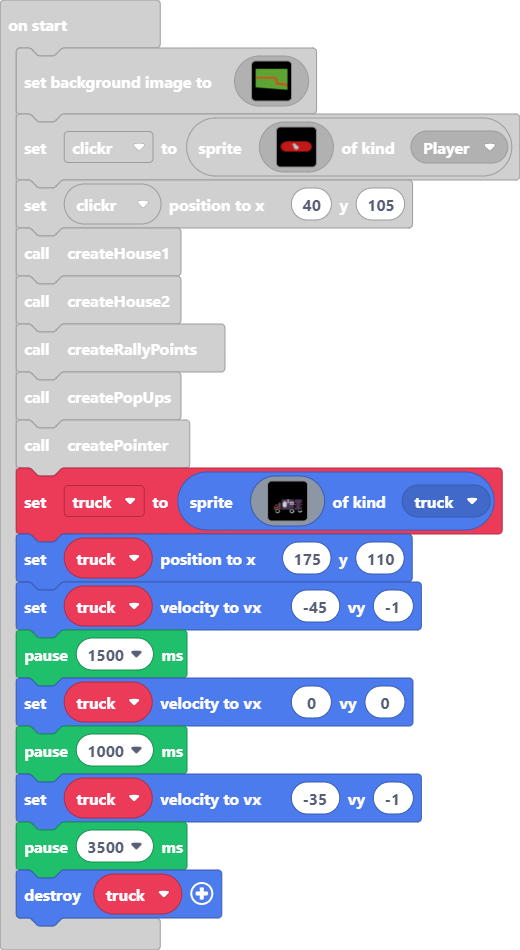
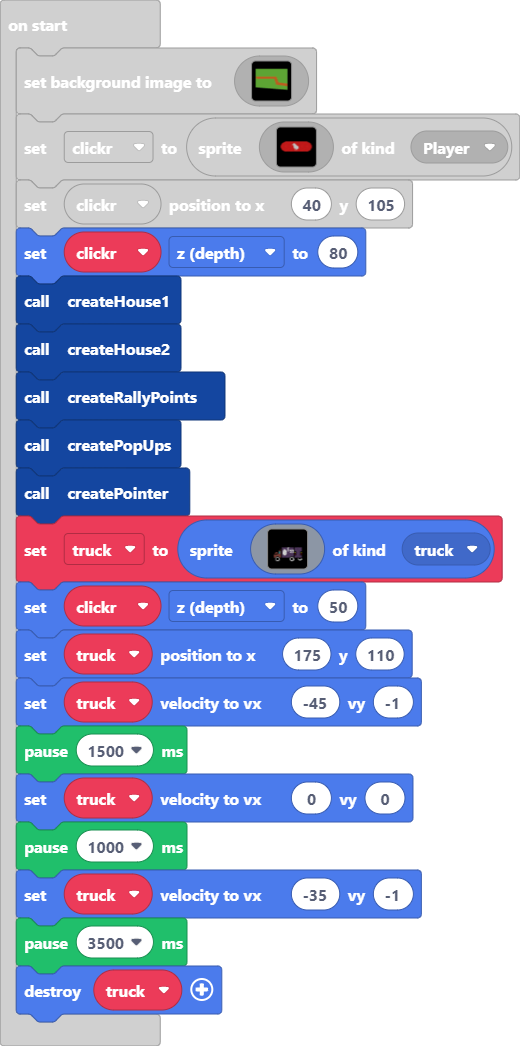
the truck now appears to be behind the clickr

diff --git a/main.ts b/main.ts
@@ -805,6 +805,7 @@ clickr = sprites.create(img`
     .........ffffffffffffffffffffffffffffffffffffffffffffffffffff.........
     `, SpriteKind.Player)
 clickr.setPosition(40, 105)
+clickr.z = 80
 createHouse1()
 createHouse2()
 createRallyPoints()
@@ -842,6 +843,7 @@ let truck = sprites.create(img`
     .....1fff1.............1fff1......111...
     ......111...............111.............
     `, SpriteKind.truck)
+clickr.z = 50
 truck.setPosition(175, 110)
 truck.setVelocity(-45, -1)
 pause(1500)
